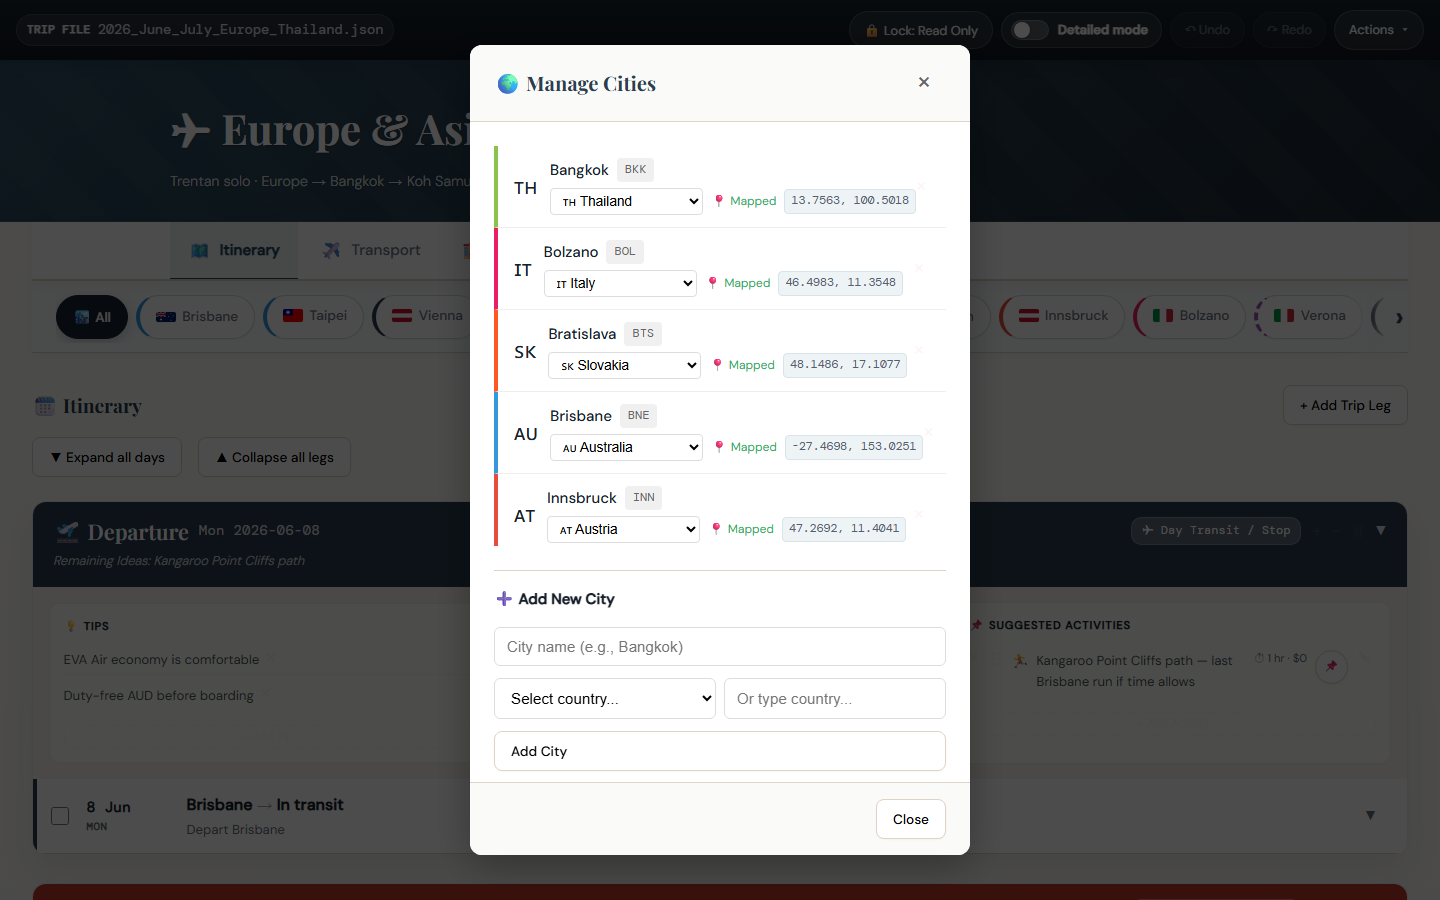
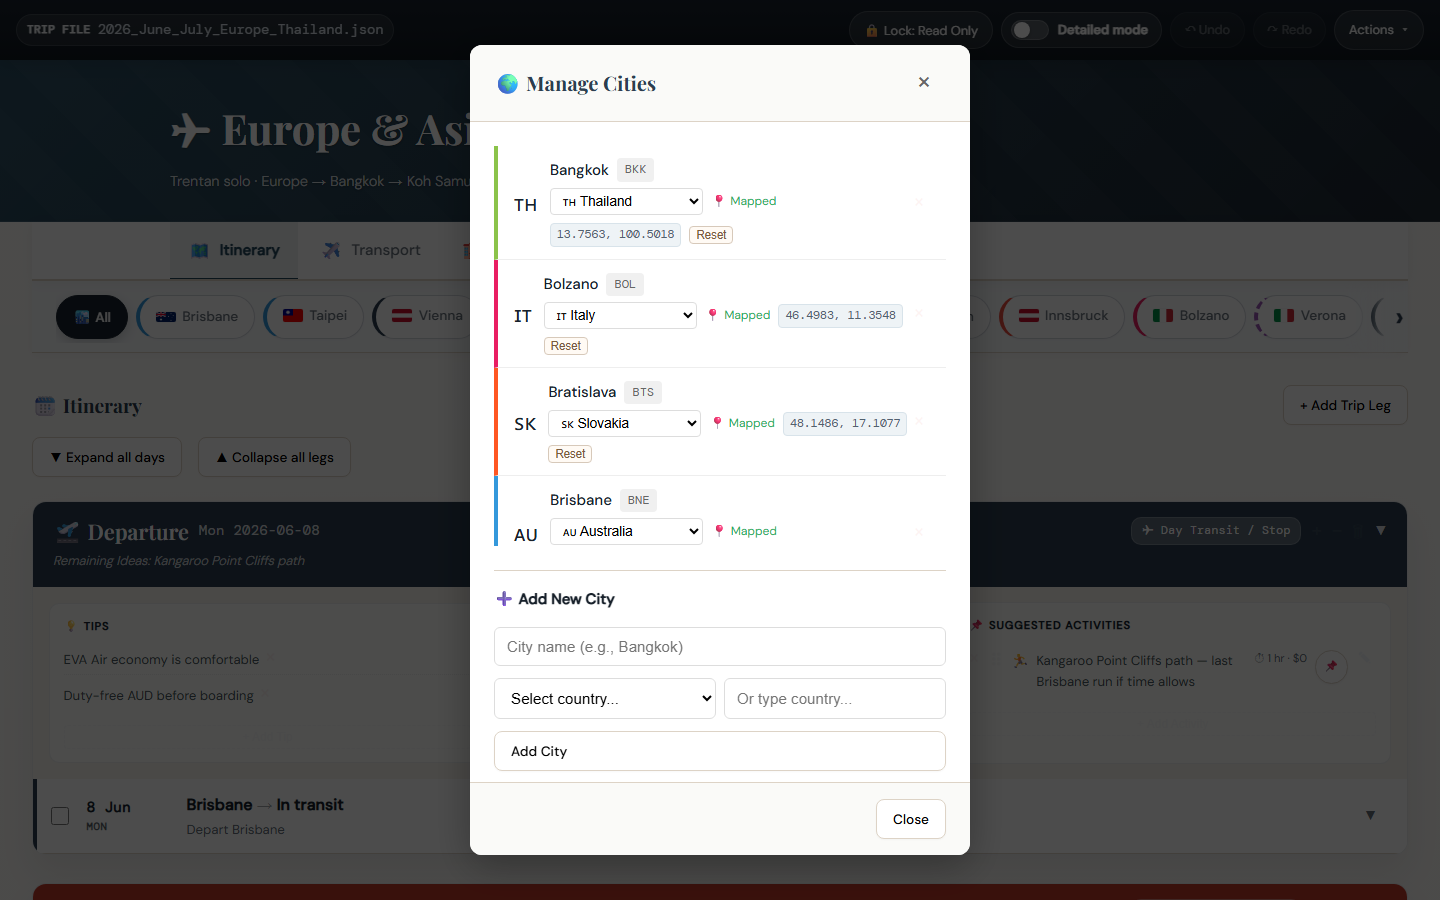
Link and reset city coordinates (#80)

diff --git a/js/data.js b/js/data.js
@@ -1771,9 +1771,22 @@ function populateCityList() {
     // Build code display
     const codeDisplay = city.code ? `<span class="city-code">${city.code}</span>` : '';
     const hasCoords = cityHasStoredCoords(city);
-    const coordinateDisplay = hasCoords
-      ? `<span class="city-coordinates" title="Latitude and longitude">${Number.parseFloat(city.lat).toFixed(4)}, ${Number.parseFloat(city.lng).toFixed(4)}</span>`
+    const cityLat = hasCoords ? Number.parseFloat(city.lat) : null;
+    const cityLng = hasCoords ? Number.parseFloat(city.lng) : null;
+    const mapsUrl = hasCoords
+      ? `https://www.google.com/maps/search/?api=1&query=${encodeURIComponent(`${cityLat},${cityLng}`)}`
       : '';
+    const coordinateDisplay = hasCoords
+      ? `<a class="city-coordinates" href="${mapsUrl}" target="_blank" rel="noopener noreferrer" title="Open ${city.name} coordinates in Google Maps">${cityLat.toFixed(4)}, ${cityLng.toFixed(4)}</a>`
+      : '';
+    const resetLocationBtn = hasCoords ? `
+      <button class="city-reset-location-btn"
+              type="button"
+              title="Clear this city's saved map location"
+              onclick="resetCityLocation('${city.id}')">
+        Reset
+      </button>
+    ` : '';
     const searchBtn = !hasCoords ? `
       <button class="search-btn" data-search-btn="${city.id}" 
               style="padding: 4px 8px; border: 1px solid #3498DB; border-radius: 4px; font-size: 0.75rem; color: #3498DB; background: white; cursor: pointer;"
@@ -1793,7 +1806,7 @@ function populateCityList() {
             ${city.name}${homeBadge}
             ${codeDisplay}
           </div>
-          <div style="display: flex; align-items: center; gap: 0.5rem; margin-top: 6px;">
+          <div style="display: flex; align-items: center; gap: 0.5rem; flex-wrap: wrap; margin-top: 6px;">
             <select class="country-select" data-city-id="${city.id}"
               style="padding: 4px 8px; border: 1px solid #ddd; border-radius: 4px; font-size: 0.85rem; min-width: 140px;">
               <option value="">Select country...</option>
@@ -1805,6 +1818,7 @@ function populateCityList() {
             </select>
             ${searchBtn}
             ${coordinateDisplay}
+            ${resetLocationBtn}
           </div>
         </div>
       </div>
@@ -1822,6 +1836,19 @@ function populateCityList() {
     });
   });
 }
+
+async function resetCityLocation(cityId) {
+  const city = citiesData.find(c => c.id === cityId);
+  if (!city) return;
+
+  delete city.lat;
+  delete city.lng;
+  await saveData(true);
+  populateCityList();
+  if (typeof buildJourneyMap === 'function') buildJourneyMap();
+}
+
+window.resetCityLocation = resetCityLocation;
 
 function updateCityCountry(cityId, country) {
   if (setCityCountry(cityId, country)) {

diff --git a/style.css b/style.css
@@ -5342,6 +5342,8 @@ body.compact-view-mode .packing-item { font-size: 11px; }
 }
 
 .city-list-item .city-coordinates {
+  display: inline-flex;
+  align-items: center;
   font-family: 'DM Mono', monospace;
   font-size: 0.72rem;
   color: #52616f;
@@ -5349,7 +5351,30 @@ body.compact-view-mode .packing-item { font-size: 11px; }
   border: 1px solid #d8e3ea;
   border-radius: 4px;
   padding: 2px 6px;
+  text-decoration: none;
   white-space: nowrap;
+}
+
+.city-list-item .city-coordinates:hover {
+  color: #24485d;
+  background: #e2edf3;
+  border-color: #b8ccd8;
+}
+
+.city-list-item .city-reset-location-btn {
+  border: 1px solid #d7c9ba;
+  border-radius: 4px;
+  background: #fffaf4;
+  color: #7a5b3d;
+  cursor: pointer;
+  font-size: 0.72rem;
+  padding: 2px 6px;
+  white-space: nowrap;
+}
+
+.city-list-item .city-reset-location-btn:hover {
+  background: #f7eadc;
+  border-color: #c7ad93;
 }
 
 .city-list-item .country-select {